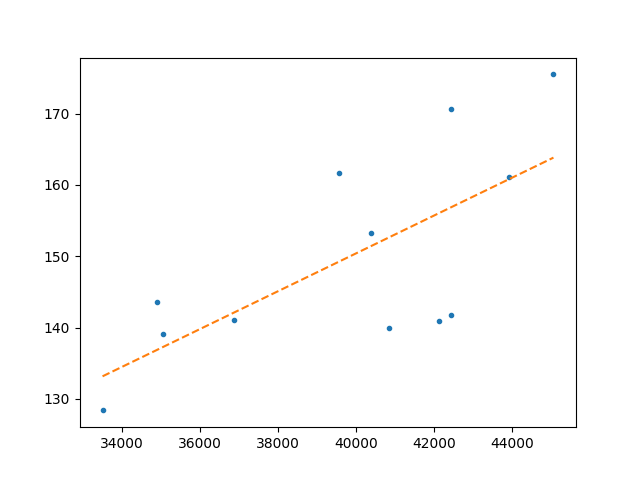
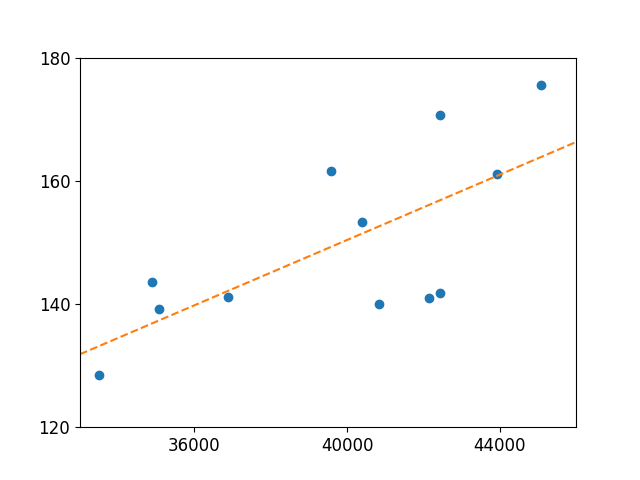
refactor image for paper

diff --git a/plotting.py b/plotting.py
@@ -28,7 +28,7 @@ df_rl = df.drop(dropped)
 x1 = df_rl['codebook_dl']
 y1 = df_rl['test_rl_regret']
 v1 = df_rl['test_regret_std']
-# v1 = v1/np.sqrt(8)  # convert SE
+v1 = v1/np.sqrt(8)  # convert SE
 rs = df_rl['test_regrets'].apply(literal_eval).to_numpy()
 rs = [np.array(r) for r in rs]
 
@@ -43,21 +43,22 @@ plt.scatter(x1, y1)
 plt.vlines(x1, y1-v1, y1+v1)
 plt.hlines(y1-v1, x1-150, x1+150)
 plt.hlines(y1+v1, x1-150, x1+150)
-plt.plot(x1, b1 + m1 * x1, '--')
+x = np.linspace(33000,46000)
+plt.plot(x, b1 + m1 * x, '--', c='#ff7f0e')
+locs, _ = plt.xticks()
+locs = locs[::2]
+plt.xticks(locs, fontsize=12)
+locs, _ = plt.yticks()
+locs = locs[::2]
+plt.yticks(locs, fontsize=12)
+plt.xlim(33000, 46000)
 # plt.show()
-plt.savefig('regret_std.png')
+plt.savefig('regret_se.png')
 
-plt.figure()
-plt.boxplot(rs, showfliers=False)
-plt.show()
+# plt.figure()
+# plt.boxplot(rs, showfliers=False)
+# plt.show()
 # plt.savefig('regret.png')
-
-# plt.xlabel('Codebook DL')
-# plt.ylabel('Regret')
-# plt.title(f'Correlation between DL and RL Regret: {correlation1:.2f}')
-# plt.show()
-# plt.savefig('figures/rerun/dl_rl_correlation.png', bbox_inches="tight")
-# plt.savefig('figures/rerun/dl_rl_correlation.pdf', bbox_inches="tight")
 
 # DL against augmented A*
 df_a_star = df.drop(dropped)
@@ -68,103 +69,105 @@ correlation2 = x2.corr(y2, method=correlation_method)
 print(f'Correlation between DL and A*: {correlation2}')
 
 plt.figure()
-plt.plot(x2, y2, '.')
-plt.plot(x2, b2 + m2 * x2, '--')
-plt.show()
-# plt.savefig(f'a_star.png')
-
-# plt.xlabel('Codebook DL')
-# plt.ylabel('Search Cost (node expanded)')
-# plt.title(f'Correlation between DL and A* search: {correlation2:.2f}')
+plt.scatter(x2, y2)
+plt.plot(x, b2 + m2 * x, '--', c='#ff7f0e')
+locs, _ = plt.xticks()
+locs = locs[::2]
+plt.xticks(locs, fontsize=12)
+locs, _ = plt.yticks()
+locs = locs[::2]
+plt.yticks(locs, fontsize=12)
+plt.xlim(33000, 46000)
 # plt.show()
-# plt.savefig('figures/rerun/dl_a_star_correlation.png', bbox_inches="tight")
-# plt.savefig('figures/rerun/dl_a_star_correlation.pdf', bbox_inches="tight")
+plt.savefig(f'a_star.png')
 
-# # qualitative examples
-# good_cb_name = 'code_book4_6.npy'
-# bad_cb_name = 'code_book3_4_8.npy'
-# with open(os.path.join(os.getcwd(), 'data/rerun', good_cb_name), 'rb+') as f:
-#     good_cb = np.load(f, allow_pickle=True).item()
-# with open(os.path.join(os.getcwd(), 'data/rerun', bad_cb_name), 'rb+') as f:
-#     bad_cb = np.load(f, allow_pickle=True).item()
-# # preprocess codebook
-# _, good_cb = preprocess_codebook(good_cb)
-# _, bad_cb = preprocess_codebook(bad_cb)
-# # clip the first 15 skills
-# good_cb = dict(sorted(good_cb.items(), key=lambda item: item[1], reverse=True))
-# good_cb = dict(list(good_cb.items())[:15])
-# bad_cb = dict(sorted(bad_cb.items(), key=lambda item: item[1], reverse=True))
-# bad_cb = dict(list(bad_cb.items())[:15])
-#
-# # make a fixed test env with trivial skills
-# env = gym.make('MiniGrid-FourRoomsSkills-v0', train=False, skills=['0','1','2'], visualize=True)
-# seed = np.random.randint(0,10000)
-# env.seed(seed)
-# window = Window('MiniGrid-FourRoomsSkills-v0')
-#
-# count = 1
-# total_exps = 1
-# while count <= total_exps:
-#     figure_dir = os.path.join(os.getcwd(), f'figures/rerun/exp{count}')
-#     if not os.path.exists(figure_dir):
-#         os.makedirs(figure_dir)
-#
-#     env.reset()
-#     env_copy = deepcopy(env)
-#
-#     good_sol, good_cost, good_search_path = a_star(env, codebook=good_cb, save_search_path=True)
-#     bad_sol, bad_cost, bad_search_path = a_star(env, codebook=bad_cb, save_search_path=True)
-#     print(f'good codebook cost: {good_cost}, bad codebook cost: {bad_cost}')
-#     if bad_cost - good_cost < 50 or len(good_search_path) < 100:
-#         continue
-#
-#     env_copy_2 = deepcopy(env)
-#     skill_path = rollout(env_copy_2, good_sol)
-#     for x,y,skill in skill_path:
-#         env_copy_2.set_path(x,y,skill)
-#     img = env_copy_2.render('rgb_array', visible_mask=False)
-#     window.show_img(img)
-#     window.save_img(figure_dir, f'good_sol_skills.png')
-#
-#     env_copy_3 = deepcopy(env)
-#     skill_path = rollout(env_copy_3, bad_sol)
-#     for x,y,skill in skill_path:
-#         env_copy_3.set_path(x,y,skill)
-#     img = env_copy_3.render('rgb_array', visible_mask=False)
-#     window.show_img(img)
-#     window.save_img(figure_dir, f'bad_sol_skills.png')
-#
-#     sep = 30
-#     i, j = 0, 0
-#     good_images, bad_images = [], []
-#     while True:
-#         img = env.render('rgb_array', visible_mask=False)
-#         window.show_img(img)
-#         window.save_img(figure_dir, f'good_frame_{int(i/sep + 1)}.png')
-#         good_images.append(imageio.imread(os.path.join(figure_dir, f'good_frame_{int(i/sep + 1)}.png')))
-#         good_chunk = good_search_path[i:i + sep]
-#         env.add_heat(good_chunk)
-#         if i > len(good_search_path):
-#             break
-#         i += sep
-#
-#     while True:
-#         img = env_copy.render('rgb_array', visible_mask=False)
-#         window.show_img(img)
-#         window.save_img(figure_dir, f'bad_frame_{int(j/sep + 1)}.png')
-#         bad_images.append(imageio.imread(os.path.join(figure_dir, f'bad_frame_{int(j/sep + 1)}.png')))
-#         bad_chunk = bad_search_path[j:j + sep]
-#         env_copy.add_heat(bad_chunk)
-#         if j > len(bad_search_path):
-#             break
-#         j += sep
-#
-#     imageio.mimsave(os.path.join(figure_dir, 'good.gif'), good_images, duration=0.5)
-#     imageio.mimsave(os.path.join(figure_dir, 'bad.gif'), bad_images, duration=0.5)
-#
-#     for file in os.listdir(figure_dir):
-#         if 'frame' in file:
-#             os.remove(os.path.join(figure_dir, file))
-#
-#     print(f'saved {count}th exp')
-#     count += 1
+'''
+# qualitative examples
+good_cb_name = 'code_book4_6.npy'
+bad_cb_name = 'code_book3_4_8.npy'
+with open(os.path.join(os.getcwd(), 'data/rerun', good_cb_name), 'rb+') as f:
+    good_cb = np.load(f, allow_pickle=True).item()
+with open(os.path.join(os.getcwd(), 'data/rerun', bad_cb_name), 'rb+') as f:
+    bad_cb = np.load(f, allow_pickle=True).item()
+# preprocess codebook
+_, good_cb = preprocess_codebook(good_cb)
+_, bad_cb = preprocess_codebook(bad_cb)
+# clip the first 15 skills
+good_cb = dict(sorted(good_cb.items(), key=lambda item: item[1], reverse=True))
+good_cb = dict(list(good_cb.items())[:15])
+bad_cb = dict(sorted(bad_cb.items(), key=lambda item: item[1], reverse=True))
+bad_cb = dict(list(bad_cb.items())[:15])
+
+# make a fixed test env with trivial skills
+env = gym.make('MiniGrid-FourRoomsSkills-v0', train=False, skills=['0','1','2'], visualize=True)
+seed = np.random.randint(0,10000)
+env.seed(seed)
+window = Window('MiniGrid-FourRoomsSkills-v0')
+
+count = 1
+total_exps = 1
+while count <= total_exps:
+    figure_dir = os.path.join(os.getcwd(), f'figures/rerun/exp{count}')
+    if not os.path.exists(figure_dir):
+        os.makedirs(figure_dir)
+
+    env.reset()
+    env_copy = deepcopy(env)
+
+    good_sol, good_cost, good_search_path = a_star(env, codebook=good_cb, save_search_path=True)
+    bad_sol, bad_cost, bad_search_path = a_star(env, codebook=bad_cb, save_search_path=True)
+    print(f'good codebook cost: {good_cost}, bad codebook cost: {bad_cost}')
+    if bad_cost - good_cost < 50 or len(good_search_path) < 100:
+        continue
+
+    env_copy_2 = deepcopy(env)
+    skill_path = rollout(env_copy_2, good_sol)
+    for x,y,skill in skill_path:
+        env_copy_2.set_path(x,y,skill)
+    img = env_copy_2.render('rgb_array', visible_mask=False)
+    window.show_img(img)
+    window.save_img(figure_dir, f'good_sol_skills.png')
+
+    env_copy_3 = deepcopy(env)
+    skill_path = rollout(env_copy_3, bad_sol)
+    for x,y,skill in skill_path:
+        env_copy_3.set_path(x,y,skill)
+    img = env_copy_3.render('rgb_array', visible_mask=False)
+    window.show_img(img)
+    window.save_img(figure_dir, f'bad_sol_skills.png')
+
+    sep = 30
+    i, j = 0, 0
+    good_images, bad_images = [], []
+    while True:
+        img = env.render('rgb_array', visible_mask=False)
+        window.show_img(img)
+        window.save_img(figure_dir, f'good_frame_{int(i/sep + 1)}.png')
+        good_images.append(imageio.imread(os.path.join(figure_dir, f'good_frame_{int(i/sep + 1)}.png')))
+        good_chunk = good_search_path[i:i + sep]
+        env.add_heat(good_chunk)
+        if i > len(good_search_path):
+            break
+        i += sep
+
+    while True:
+        img = env_copy.render('rgb_array', visible_mask=False)
+        window.show_img(img)
+        window.save_img(figure_dir, f'bad_frame_{int(j/sep + 1)}.png')
+        bad_images.append(imageio.imread(os.path.join(figure_dir, f'bad_frame_{int(j/sep + 1)}.png')))
+        bad_chunk = bad_search_path[j:j + sep]
+        env_copy.add_heat(bad_chunk)
+        if j > len(bad_search_path):
+            break
+        j += sep
+
+    imageio.mimsave(os.path.join(figure_dir, 'good.gif'), good_images, duration=0.5)
+    imageio.mimsave(os.path.join(figure_dir, 'bad.gif'), bad_images, duration=0.5)
+
+    for file in os.listdir(figure_dir):
+        if 'frame' in file:
+            os.remove(os.path.join(figure_dir, file))
+
+    print(f'saved {count}th exp')
+    count += 1
+'''
